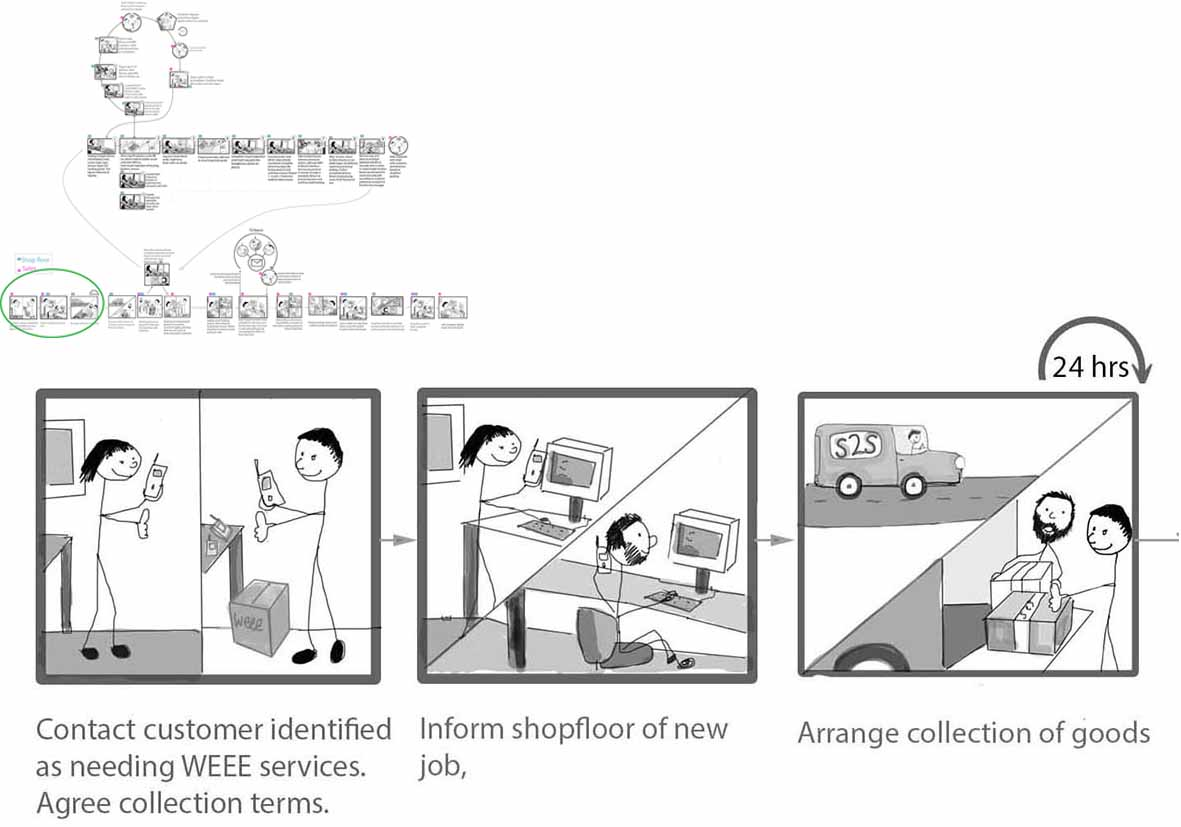
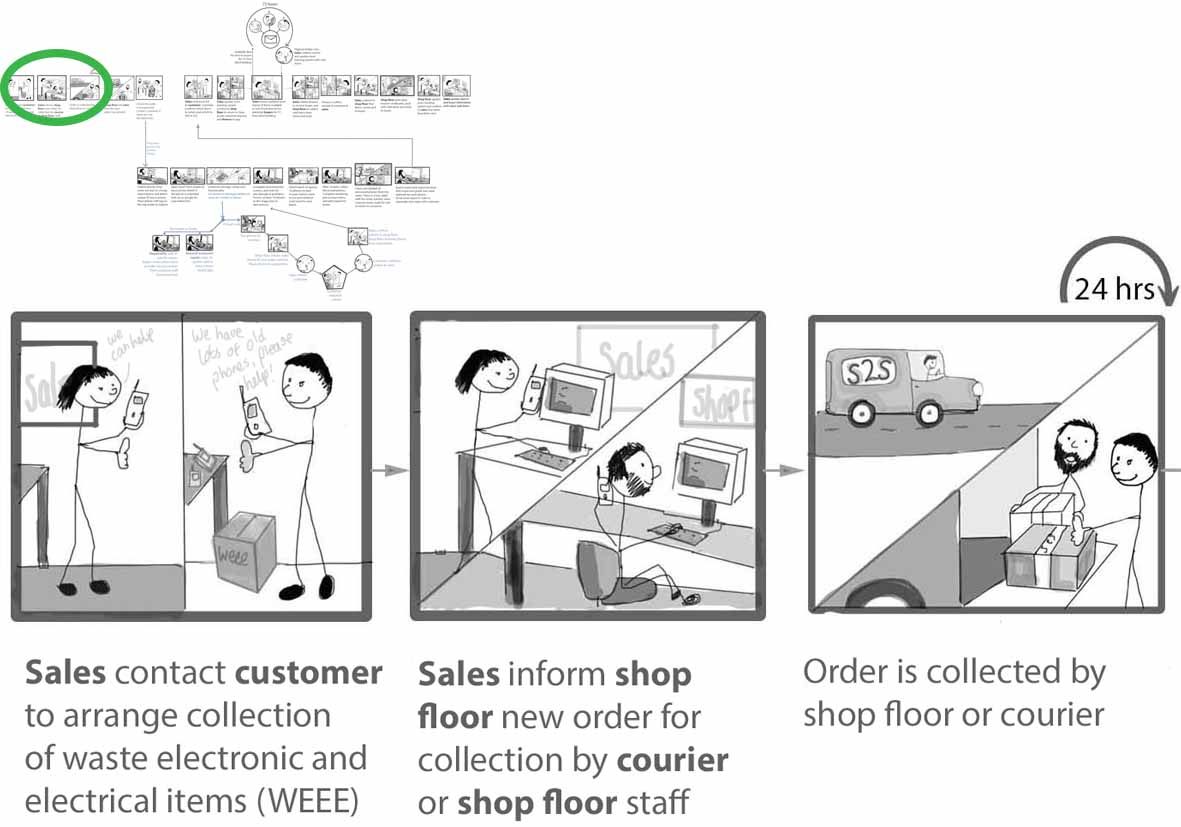
changed storyboard for test
new layout and edited text based on trial test feedback

diff --git a/public_html/storyboard.html b/public_html/storyboard.html
@@ -51,7 +51,7 @@
 							</li>
 							<li><a class="tab" href="#start-processing" data-toggle="tab" onclick="document.getElementById('mainPic').src='images/story3.jpg'">3: Start processing </a>
 							</li>
-							<li><a class="tab" href="#locked-unknown-loop" data-toggle="tab" onclick="document.getElementById('mainPic').src='images/story4.jpg'">4: Locked/unknown loop </a>
+							<li><a class="tab" href="#locked-unknown-loop" data-toggle="tab" onclick="document.getElementById('mainPic').src='images/story4.jpg'">4: Locked phone loop </a>
 							</li>
 							<li><a class="tab" href="#functional-test" data-toggle="tab" onclick="document.getElementById('mainPic').src='images/story5.jpg'">5: Functional test </a>
 							</li>

diff --git a/public_html/S2SBPMN.html b/public_html/S2SBPMN.html
@@ -51,7 +51,7 @@
 							</li>
 							<li><a class="tab" href="#start-processing" data-toggle="tab" onclick="document.getElementById('mainPic').src='images/BPMN3.jpg'">3: Start processing </a>
 							</li>
-							<li><a class="tab" href="#locked-unknown-loop" data-toggle="tab" onclick="document.getElementById('mainPic').src='images/BPMN4.jpg'">4: Locked/unknown loop </a>
+							<li><a class="tab" href="#locked-unknown-loop" data-toggle="tab" onclick="document.getElementById('mainPic').src='images/BPMN4.jpg'">4: Locked phone loop </a>
 							</li>
 							<li><a class="tab" href="#functional-test" data-toggle="tab" onclick="document.getElementById('mainPic').src='images/BPMN5.jpg'">5: Functional test </a>
 							</li>

diff --git a/public_html/3Dfactory_KvL2.html b/public_html/3Dfactory_KvL2.html
@@ -98,7 +98,7 @@
 							</li>
 							<li><a class="tab"href="#start-processing" data-toggle="tab" onclick="processJSONRoute('routeProcessing.json')">3: Start processing </a>
 							</li>
-							<li><a class="tab"href="#locked-unknown-loop" data-toggle="tab" onclick="processJSONRoute('routeLockedLoop.json')">4: Locked/unknown loop </a>
+							<li><a class="tab"href="#locked-unknown-loop" data-toggle="tab" onclick="processJSONRoute('routeLockedLoop.json')">4: Locked phone loop </a>
 							</li>
 							<li><a class="tab"href="#functional-test" data-toggle="tab" onclick="processJSONRoute('routeFunctional.json')">5: Functional test </a>
 							</li>
